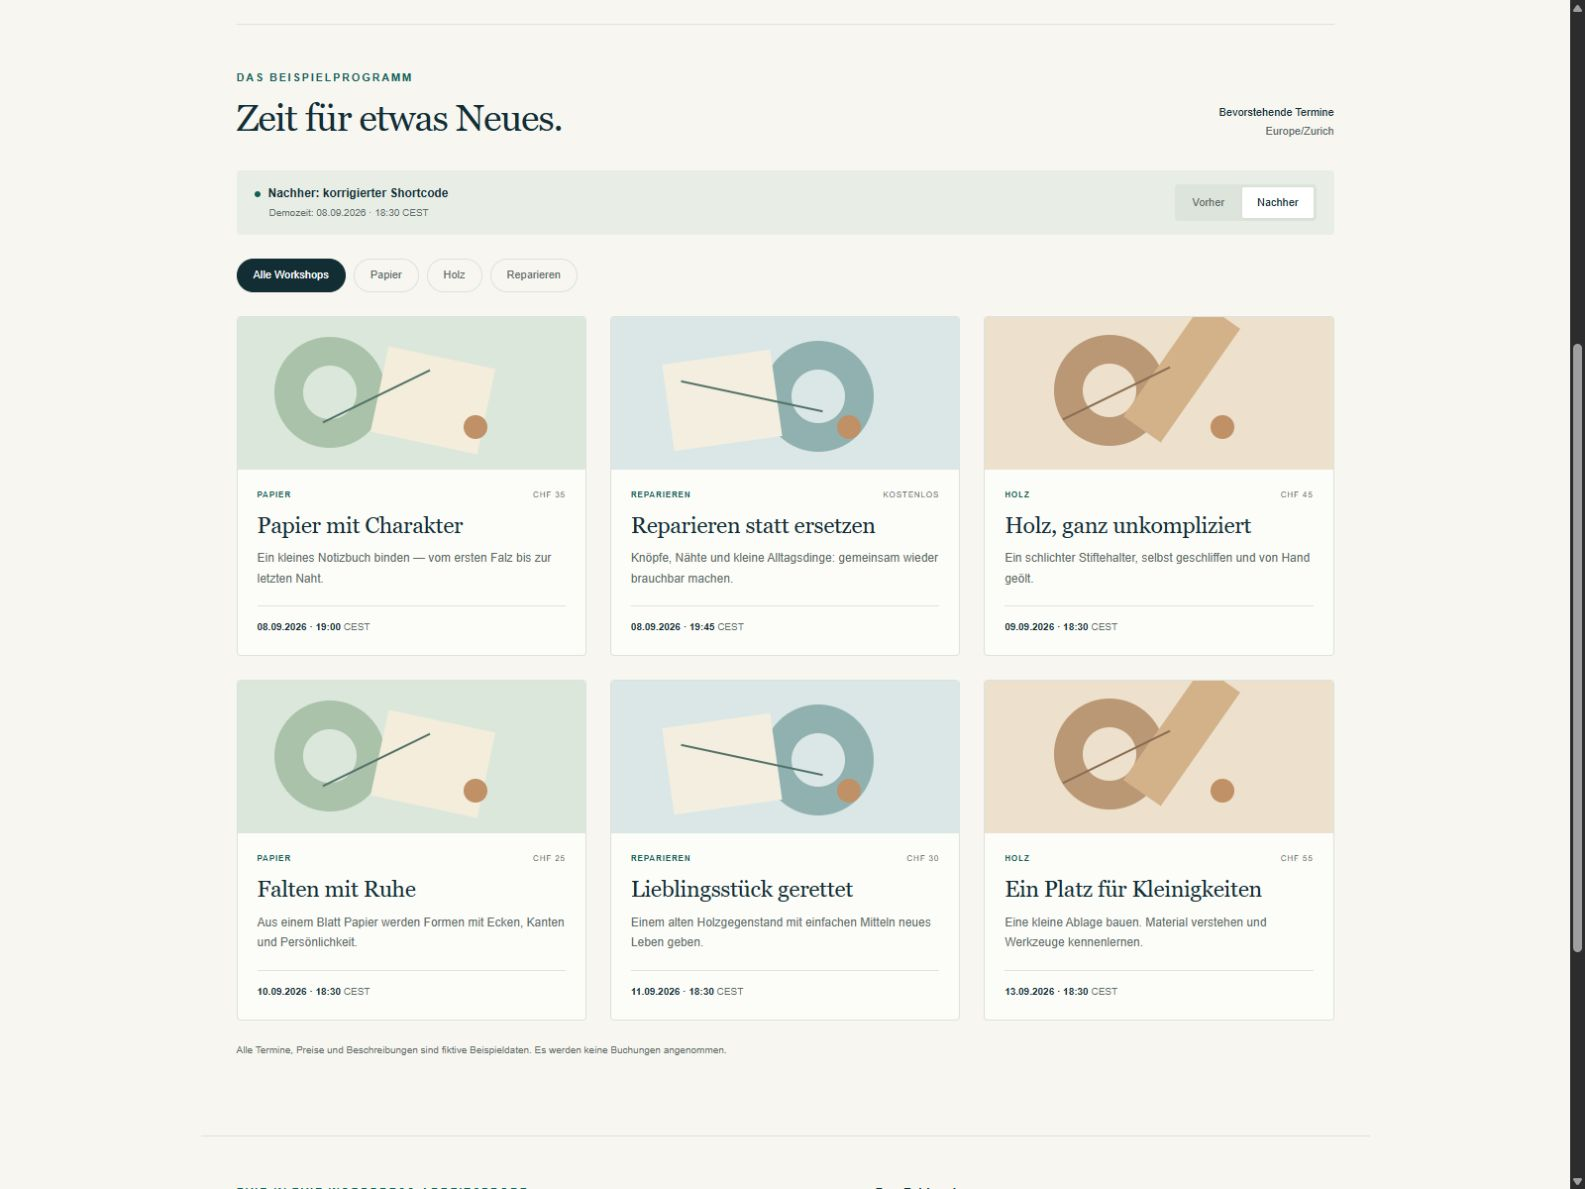
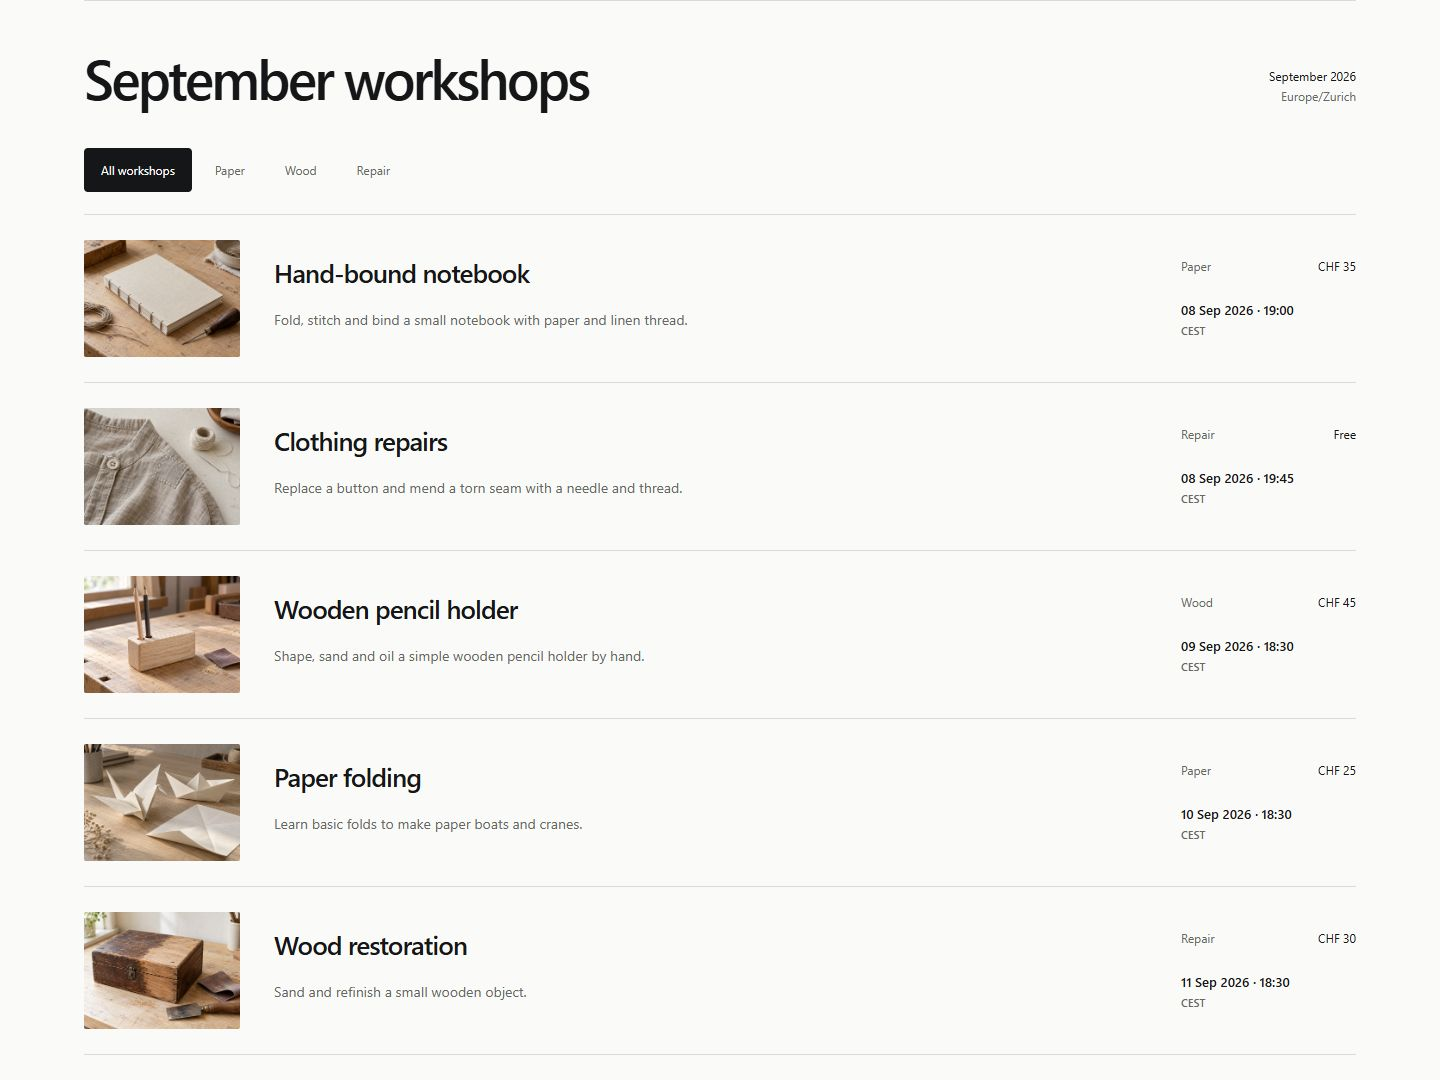
Publish reviewed English workshop screenshots and setup guide

diff --git a/README.md b/README.md
@@ -1,16 +1,16 @@
-# WordPress workshop shortcode — portfolio demonstration
+# Atelier Nord — WordPress workshop demo
 
-A small custom WordPress plugin that turns existing workshop posts into a filtered, ordered schedule. The accompanying fictitious “Atelier Nord” site demonstrates a deliberately introduced timezone defect and its correction.
+A WordPress shortcode that filters and orders upcoming workshops correctly across timezones. The sample reproduces an offset-based cutoff error: the faulty fixture shows four workshops; comparing genuine Unix timestamps restores all six upcoming workshops.
 
-**This is an intentional portfolio exercise. It is not a customer project, testimonial, third-party bug report or claim of Elementor/Divi experience. No real bookings, payments or customer data are used.**
+Atelier Nord is an independent portfolio exercise with fictional events, fees and generated imagery, not a customer project. It includes a custom plugin, an English demonstration theme and tests running against real WordPress.
 
-## Screenshots from the running WordPress demonstration
+## Views
 
-![Fictional Atelier Nord demonstration running in WordPress](wordpress-demo-desktop.png)
+![Desktop view](wordpress-demo-desktop.png)
 
-![Corrected shortcode displaying all six upcoming fictional workshops](wordpress-demo-gallery.png)
+![Workshop schedule](wordpress-demo-gallery.png)
 
-[View the actual mobile layout](wordpress-demo-mobile.png).
+[Mobile view](wordpress-demo-mobile.png)
 
 ## What the plugin does
 
@@ -23,25 +23,17 @@ A small custom WordPress plugin that turns existing workshop posts into a filter
 - Filters by the `atelier_topic` taxonomy; an unknown topic has a useful empty state.
 - Includes workshops whose start is now or later and orders them by their actual start instant.
 - Preserves the page's main post context.
-- Provides WordPress editor fields for a local start date/time and a CHF example fee. `0` displays as “Kostenlos”.
+- Provides WordPress editor fields for a local start date/time and a CHF example fee. `0` displays as “Free”.
 
-The plugin stores `_atelier_start_utc` as a genuine Unix timestamp. The WordPress site's timezone controls display and the editor's local-time conversion.
-
-Editor policy at clock changes: saving an unchanged displayed minute preserves its existing UTC instant, including any stored seconds. A **new or changed** ambiguous local time selects the **later occurrence** using the timezone's adjacent offsets. For example, a new Zurich `2030-10-27 02:30` becomes `01:30 UTC`; an unchanged entry already stored as `00:30 UTC` keeps that earlier instant. Invalid dates and nonexistent spring-forward times leave the previous value untouched. This policy also appears beside the editor field.
+`_atelier_start_utc` stores a genuine Unix timestamp; the site's timezone controls display and editor conversion. An unchanged displayed minute preserves its existing instant and seconds. A **new or changed** ambiguous local time selects the **later occurrence**: Zurich `2030-10-27 02:30` becomes `01:30 UTC`, while an unchanged entry stored as `00:30 UTC` keeps that instant. Invalid dates and nonexistent spring-forward times leave the previous value untouched. The editor explains this policy beside the field.
 
 ## The specific correction
 
-A legacy WordPress timestamp obtained from `current_time('timestamp')` includes the site's GMT offset. Comparing that value with genuine Unix timestamps shifts the cutoff. In Zurich during summer, a workshop starting in 30 minutes disappears roughly two hours too soon; in a negative-offset timezone, already-started workshops can reappear.
+A value from `current_time('timestamp')` includes the site's GMT offset. Comparing it with genuine Unix timestamps moves the cutoff: Zurich summer events can disappear two hours early, while negative offsets can reintroduce past events.
 
 The fixed code compares `current_datetime()->getTimestamp()` with stored Unix timestamps and uses `wp_date()` for local display. The intentionally faulty behavior exists only in `demo/legacy-shortcode.php`; the distributable `atelier-workshops` plugin never loads it.
 
-Primary API contracts:
-
-- [WordPress current_time](https://developer.wordpress.org/reference/functions/current_time/) documents the offset-bearing result when GMT is false.
-- [WordPress current_datetime](https://developer.wordpress.org/reference/functions/current_datetime/) returns a DateTimeImmutable in the site's timezone.
-- [WordPress wp_date](https://developer.wordpress.org/reference/functions/wp_date/) formats a genuine timestamp in the selected timezone.
-- [WordPress WP_Query](https://developer.wordpress.org/reference/classes/wp_query/) provides the taxonomy, publication status and numeric metadata query behavior used here.
-- [PHP DateTimeZone::getTransitions](https://www.php.net/manual/en/datetimezone.gettransitions.php) supplies transition offsets in seconds; fixed-offset zones have no transitions. The plugin uses these offsets to resolve new ambiguous input explicitly.
+API references: [current_time](https://developer.wordpress.org/reference/functions/current_time/), [current_datetime](https://developer.wordpress.org/reference/functions/current_datetime/), [wp_date](https://developer.wordpress.org/reference/functions/wp_date/), [WP_Query](https://developer.wordpress.org/reference/classes/wp_query/), and [DateTimeZone::getTransitions](https://www.php.net/manual/en/datetimezone.gettransitions.php).
 
 ## Files
 
@@ -60,9 +52,9 @@ Only this source directory is intended for publication. WordPress core, PHP bina
 2. In **Workshops**, create published entries with a start date/time, excerpt, topic and optional fee. Editor input uses the site's configured timezone.
 3. Add `[atelier_schedule]` to a page. Use `topic` and `limit` when needed.
 
-The plugin works independently of the demonstration theme. This exercise was actually run against WordPress 7.1 with the official SQLite integration 3.0.1; other WordPress/database combinations have not been claimed as tested.
+The plugin works independently of the theme. Tested with WordPress 7.1 and official SQLite integration 3.0.1; other WordPress/database combinations are unverified.
 
-The plugin emits the schedule HTML and class names. The accompanying `atelier-portfolio-theme/style.css` supplies the demonstration's card layout, colors and decorative shapes; that appearance is not bundled into the standalone plugin. An existing site can style the shortcode with its own theme or custom CSS.
+The plugin emits semantic HTML and class names; an existing site supplies its own CSS. The demo theme adds the layout and local images through `atelier_workshop_art`. Stable `_atelier_demo_key` values map six records to six individual photographs with descriptive alt text, explicit dimensions, lazy loading and bounded thumbnails. The plugin does not depend on these images.
 
 ## Recreate the optional before/after site
 
@@ -73,15 +65,15 @@ Use a disposable local installation with the plugin active. Copy the theme into 
 require __DIR__ . '/atelier-demo/environment.php';
 ```
 
-From CLI, bootstrap that local WordPress installation and require `wp-content/mu-plugins/atelier-demo/seed.php`. The seed creates clearly marked fictional posts, sets the fixed demonstration clock to **8 September 2026, 18:30 Europe/Zurich**, and activates the demonstration theme. It only replaces posts marked `_atelier_demo_fixture`; it is nevertheless intended exclusively for a disposable portfolio site.
+From CLI, bootstrap that WordPress installation and require `wp-content/mu-plugins/atelier-demo/seed.php`. The seed creates or updates `_atelier_demo_fixture` posts, preserving fixture IDs and UTC instants on repeat runs. It sets the clock to **8 September 2026, 18:30 Europe/Zurich**, activates the theme, and changes the site title, language and sample taxonomy labels. Use it only in a disposable site.
 
-The page's **Vorher/Nachher** control switches between the faulty fixture and corrected shortcode using the same stored content. The fixture yields four upcoming cards; the correction yields six. The topic filters work in both modes. The page identifies the frozen demo clock and fictitious content visibly.
+The **Before/After** control in “WordPress implementation” compares the faulty fixture and corrected shortcode using the same content. Topic filters work in both modes, and the fixed clock is shown beside the explanation.
 
 ## Actual validation
 
 Executed locally with **PHP 8.4.25**, **WordPress 7.1**, **SQLite Database Integration 3.0.1** and **SQLite 3.53.4**:
 
-**11 tests passed, 0 failed**, using genuine WordPress functions, hooks, `WP_Query`, shortcodes, user capabilities, editor-save hooks and a separate SQLite test database. No WordPress or database functions were mocked. The three additional editor regression cases failed against the preceding plugin code and pass with the correction.
+**11 tests passed, 0 failed**, using genuine WordPress functions, hooks, queries, shortcodes, capabilities and editor saves against a separate SQLite database. No WordPress or database functions are mocked.
 
 1. UTC: past excluded, exact start included, chronological order.
 2. Zurich summer: next-hour event retained; faulty fixture demonstrably loses it.
@@ -95,7 +87,9 @@ Executed locally with **PHP 8.4.25**, **WordPress 7.1**, **SQLite Database Integ
 10. Newly entered ambiguous times select the later occurrence in Zurich and New York.
 11. An unchanged minute preserves stored seconds; a nonexistent spring-forward input cannot overwrite it.
 
-HTTP checks additionally returned 200 and verified 6 corrected cards / 4 faulty cards / 2 paper-topic cards. The PHP source files passed syntax checks. Separate browser review checked a 1280px desktop viewport and a 375 × 812px mobile viewport, found no horizontal overflow, and confirmed visible keyboard focus and the before/after/topic controls. The CLI integration tests do not assess appearance.
+All **8 PHP files passed syntax checks**. HTTP checks returned **200**, verified 6 corrected / 4 faulty / 2 paper-topic results, all six title/photo/alt associations and six photo endpoints. All seven fixture IDs and UTC instants were preserved after seeding.
+
+The current English page passed browser review at 1440px desktop and 375px mobile: six matching photographs loaded, no horizontal overflow was detected, Paper displayed its two workshops, and Before/After displayed four/six workshops. The screenshots above are actual browser captures of this revision.
 
 ## Run the real WordPress tests
 
@@ -120,12 +114,12 @@ WP_DEMO_TEST=1 ATELIER_WORDPRESS_ROOT=/path/to/disposable/wordpress \
   php tests/regression.php tests/bootstrap.php
 ```
 
-The supplied `tests/bootstrap.php` provides the complete test configuration: it bypasses an existing `wp-config.php`, installs WordPress automatically into `tests/.test-data/tests.sqlite`, blocks WordPress HTTP requests and mail, and disables cron and automatic updates. No administrator login or password is needed or printed. An optional `ATELIER_TEST_DATA_DIR` selects another disposable data directory; the database filename must remain `tests.sqlite`. The default data folder is excluded in `.gitignore` and must never be published.
+`tests/bootstrap.php` bypasses any existing `wp-config.php` and installs WordPress into `tests/.test-data/tests.sqlite`. It blocks HTTP requests and mail and disables cron and automatic updates. No administrator credentials are needed or printed. `ATELIER_TEST_DATA_DIR` optionally selects another disposable directory; the database filename must remain `tests.sqlite`. The default data folder is excluded by `.gitignore` and must not be published.
 
-The suite creates its own temporary user with the WordPress **Editor** role, verifies the real edit capability, and removes that user and its workshop fixtures after execution, including failed assertions. It does not depend on an existing administrator username. The SQLite database remains for repeat runs; selecting a new empty data directory also exercises first-install bootstrap. Both first-install and repeat runs were executed successfully. Other installed plugins, web authentication and browser appearance are outside this CLI test's scope.
+The suite creates a temporary **Editor**, verifies the actual edit capability, and removes that user and its workshop fixtures even after failed assertions. The database remains for repeat runs; an empty data directory exercises first-install bootstrap. Both paths passed. Other installed plugins, web authentication and browser appearance are outside this suite's scope.
 
 ## Scope
 
-This sample demonstrates a focused PHP/WordPress content shortcode and a concrete correctness fix. It does not claim full booking functionality, payment processing, page-builder specialization, production-scale load testing or a third-party plugin compatibility audit.
+This sample covers a content shortcode and a timezone correctness fix. It has no booking or payment flow and does not demonstrate Elementor/Divi specialization, production-scale load testing or a third-party plugin compatibility audit.
 
 Code license: [GPL-2.0-or-later](LICENSE). WordPress and the SQLite integration retain their own licenses and are not bundled in this source directory.
